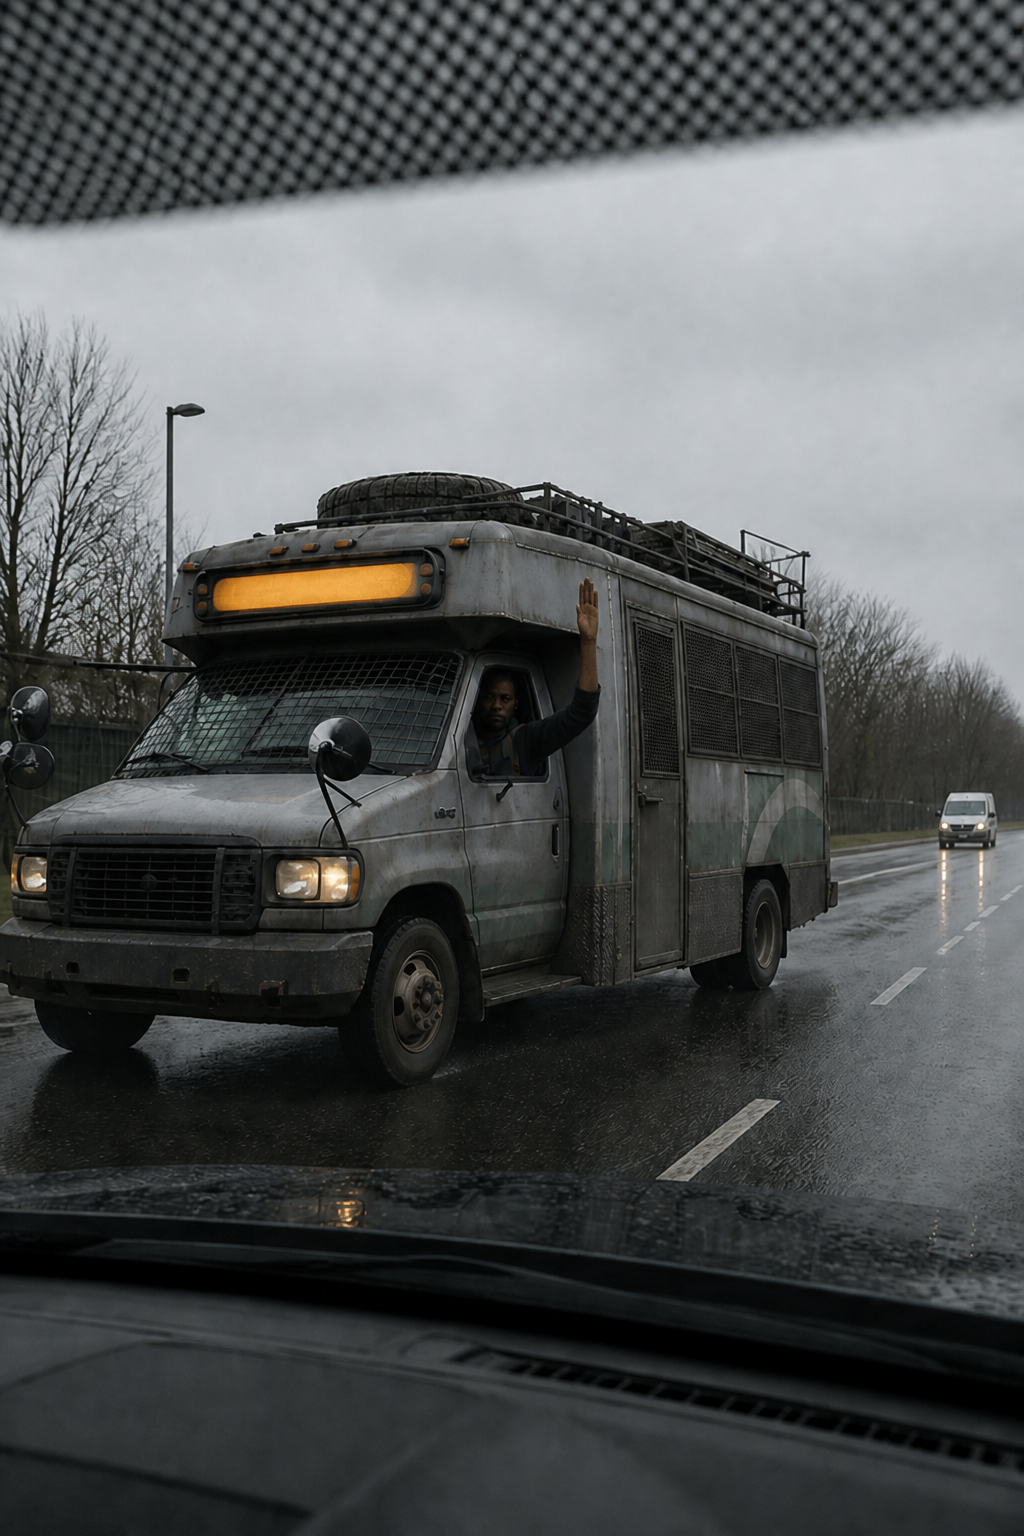
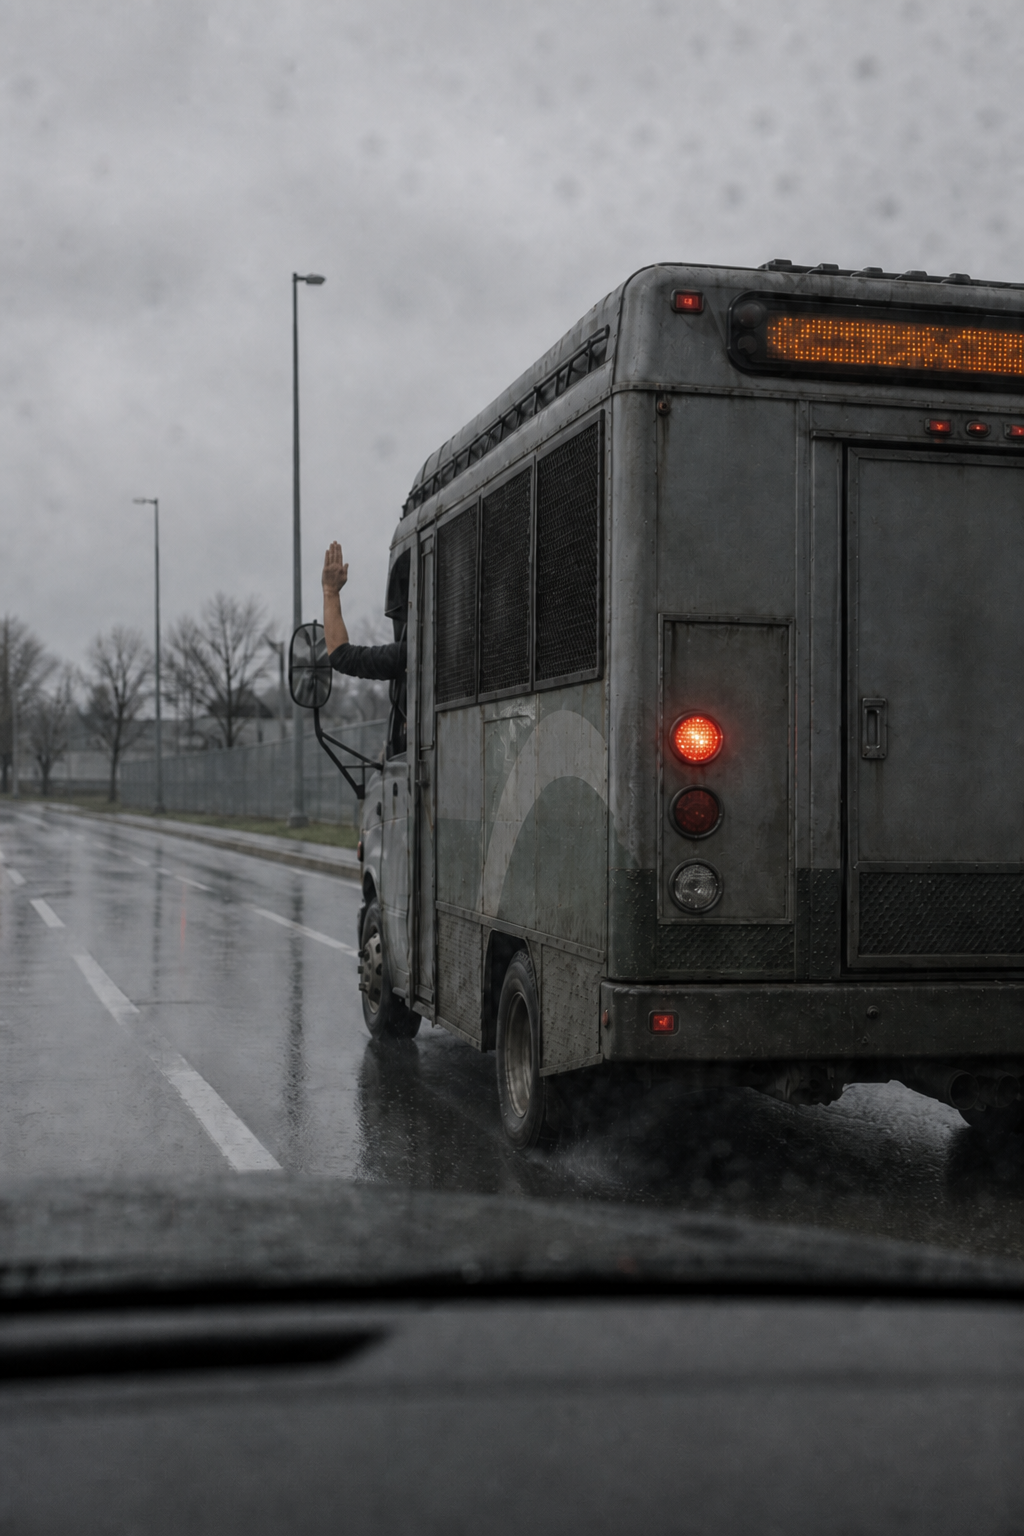
Reshoot II-022 from behind the Ledger.
The last take was nose-to-nose. This one keeps the rear nearest the camera so the right-turn arm is what the convoy actually sees.

diff --git a/scripts/compile-prompt.js b/scripts/compile-prompt.js
@@ -26,7 +26,7 @@ const FRAMING = {
   POV_DIAGRAM:
     "Camera is high and slightly oblique — fifteen to twenty degrees off vertical, looking along the ego vehicle's direction of travel so the rear of the Beetle is nearer the camera and the plow is the far, leading end. Tight crop: only the lane geometry the card turns on. No extra side streets, parked cars, or curb clutter the brief did not name. Real wet pavement, real painted lines. The Pink Menace is the actual faded-pink VW Beetle with mesh cages, knobby tires, and the wide flat plow at the leading end. Other vehicles are real cars, desaturated gray or primer. Painted pavement arrows only where the brief names them, and they agree with travel direction — no floating UI arrows, no legend, no callouts.",
   POV_CHASE:
-    "Camera is behind the subject vehicle, road ahead visible. The brief specifies whether this is dead astern or offset to a flank, and whether the camera is outside or in a following cab.",
+    "Camera is behind the subject vehicle, traveling the same direction. The subject's rear is the nearest and dominant mass; the body recedes away from the camera. Dead astern or offset to a flank as the brief specifies. The camera may be outside or in a following cab looking forward through glass. Never oncoming. The subject's front, grille, and headlights are not in frame.",
   POV_ROADSIDE:
     "Camera is ground level, outside the car, human eye height.",
   POV_PORTRAIT:
@@ -46,6 +46,12 @@ const DIAGRAM_NEGATIVE =
 
 const LHD_NEGATIVE =
   "No right-hand drive, no steering wheel on the right side of the cabin, no driving on the left side of the road.";
+
+const CHASE_CLAUSE =
+  "Chase camera: camera vehicle and subject travel the same direction. The rear of the subject — back doors, rear bumper — is nearest the camera and occupies a large fraction of the frame. The body recedes away from the camera toward the top of the frame. The subject's front, grille, windshield, and headlights are not visible from this position.";
+
+const CHASE_NEGATIVE =
+  "No front grille, no headlights facing the camera, no oncoming vehicles, no vehicle facing the camera, no nose-to-nose traffic, no subject coming toward the lens.";
 
 const SIGN_CLAUSE =
   "Traffic signs are single-faced. Any sign in frame is legible only if it faces the camera's direction of travel. Signs governing a cross or opposing approach show their blank reverse side. Exactly one sign face may be legible in any frame; if a second would be, turn it or crop it. Never depict a double-sided sign.";
@@ -94,7 +100,16 @@ function assemblePrompt(card) {
 
   if (describesRoadway(card) && brief.geometry) {
     parts.push(LHD);
-    parts.push(geometryPromptClause(brief.geometry));
+    if (cam === "POV_CHASE") {
+      parts.push(CHASE_CLAUSE);
+      const geo = brief.geometry;
+      parts.push(
+        "United States road configuration, traffic drives on the right. Same-direction traffic occupies the right half of the roadway. " +
+          `The subject is traveling ${headingPhrase(geo.ego_heading)}. Any oncoming traffic is ${geo.oncoming_position}. No vehicle faces the wrong way in its lane.`
+      );
+    } else {
+      parts.push(geometryPromptClause(brief.geometry));
+    }
     parts.push(SIGN_CLAUSE);
   } else if (cam !== "POV_OBJECT" && cam !== "POV_PORTRAIT") {
     parts.push(LHD);
@@ -105,6 +120,7 @@ function assemblePrompt(card) {
   }
 
   const negs = [cam === "POV_DIAGRAM" ? DIAGRAM_NEGATIVE : NEGATIVE, LHD_NEGATIVE];
+  if (cam === "POV_CHASE") negs.push(CHASE_NEGATIVE);
   if (cam === "POV_MIRROR_REAR" || cam === "POV_MIRROR_DOOR") negs.push(MIRROR_NEGATIVES);
   parts.push(negs.join(" "));
 
